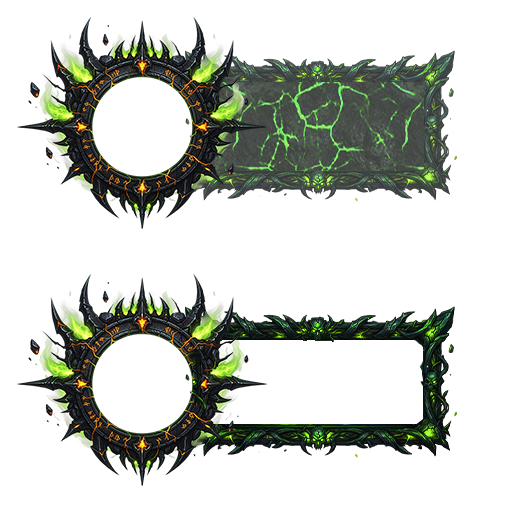
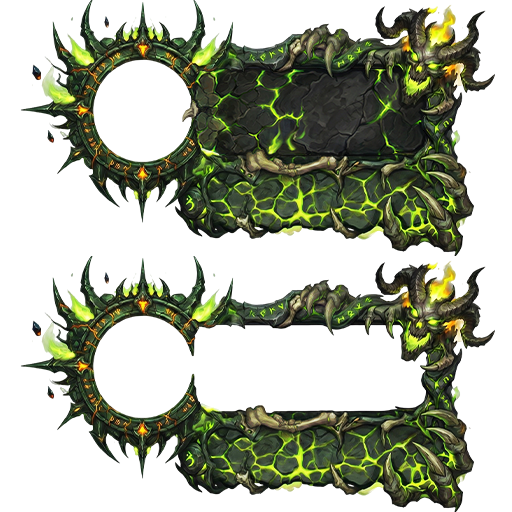
chore: Enhanced layout field declaration and revamp warlock textures + added shaman texture.

diff --git a/README.md b/README.md
@@ -1,7 +1,7 @@
 # EPF Custom Skins
 
 [![License: CC BY-NC-SA 4.0](https://img.shields.io/badge/License-CC%20BY--NC--SA%204.0-blue.svg)](https://creativecommons.org/licenses/by-nc-sa/4.0/)
-[![Version](https://img.shields.io/badge/Version-1.0.5-informational)](ElitePlayerFrame_Enhanced_CustomSkins.toc)
+[![Version](https://img.shields.io/badge/Version-1.0.6-informational)](ElitePlayerFrame_Enhanced_CustomSkins.toc)
 [![WoW](https://img.shields.io/badge/WoW-12.0%20(TWW)-orange)](https://worldofwarcraft.blizzard.com/)
 [![Lua](https://img.shields.io/badge/Lua-5.x-blue)](https://www.lua.org/)
 
